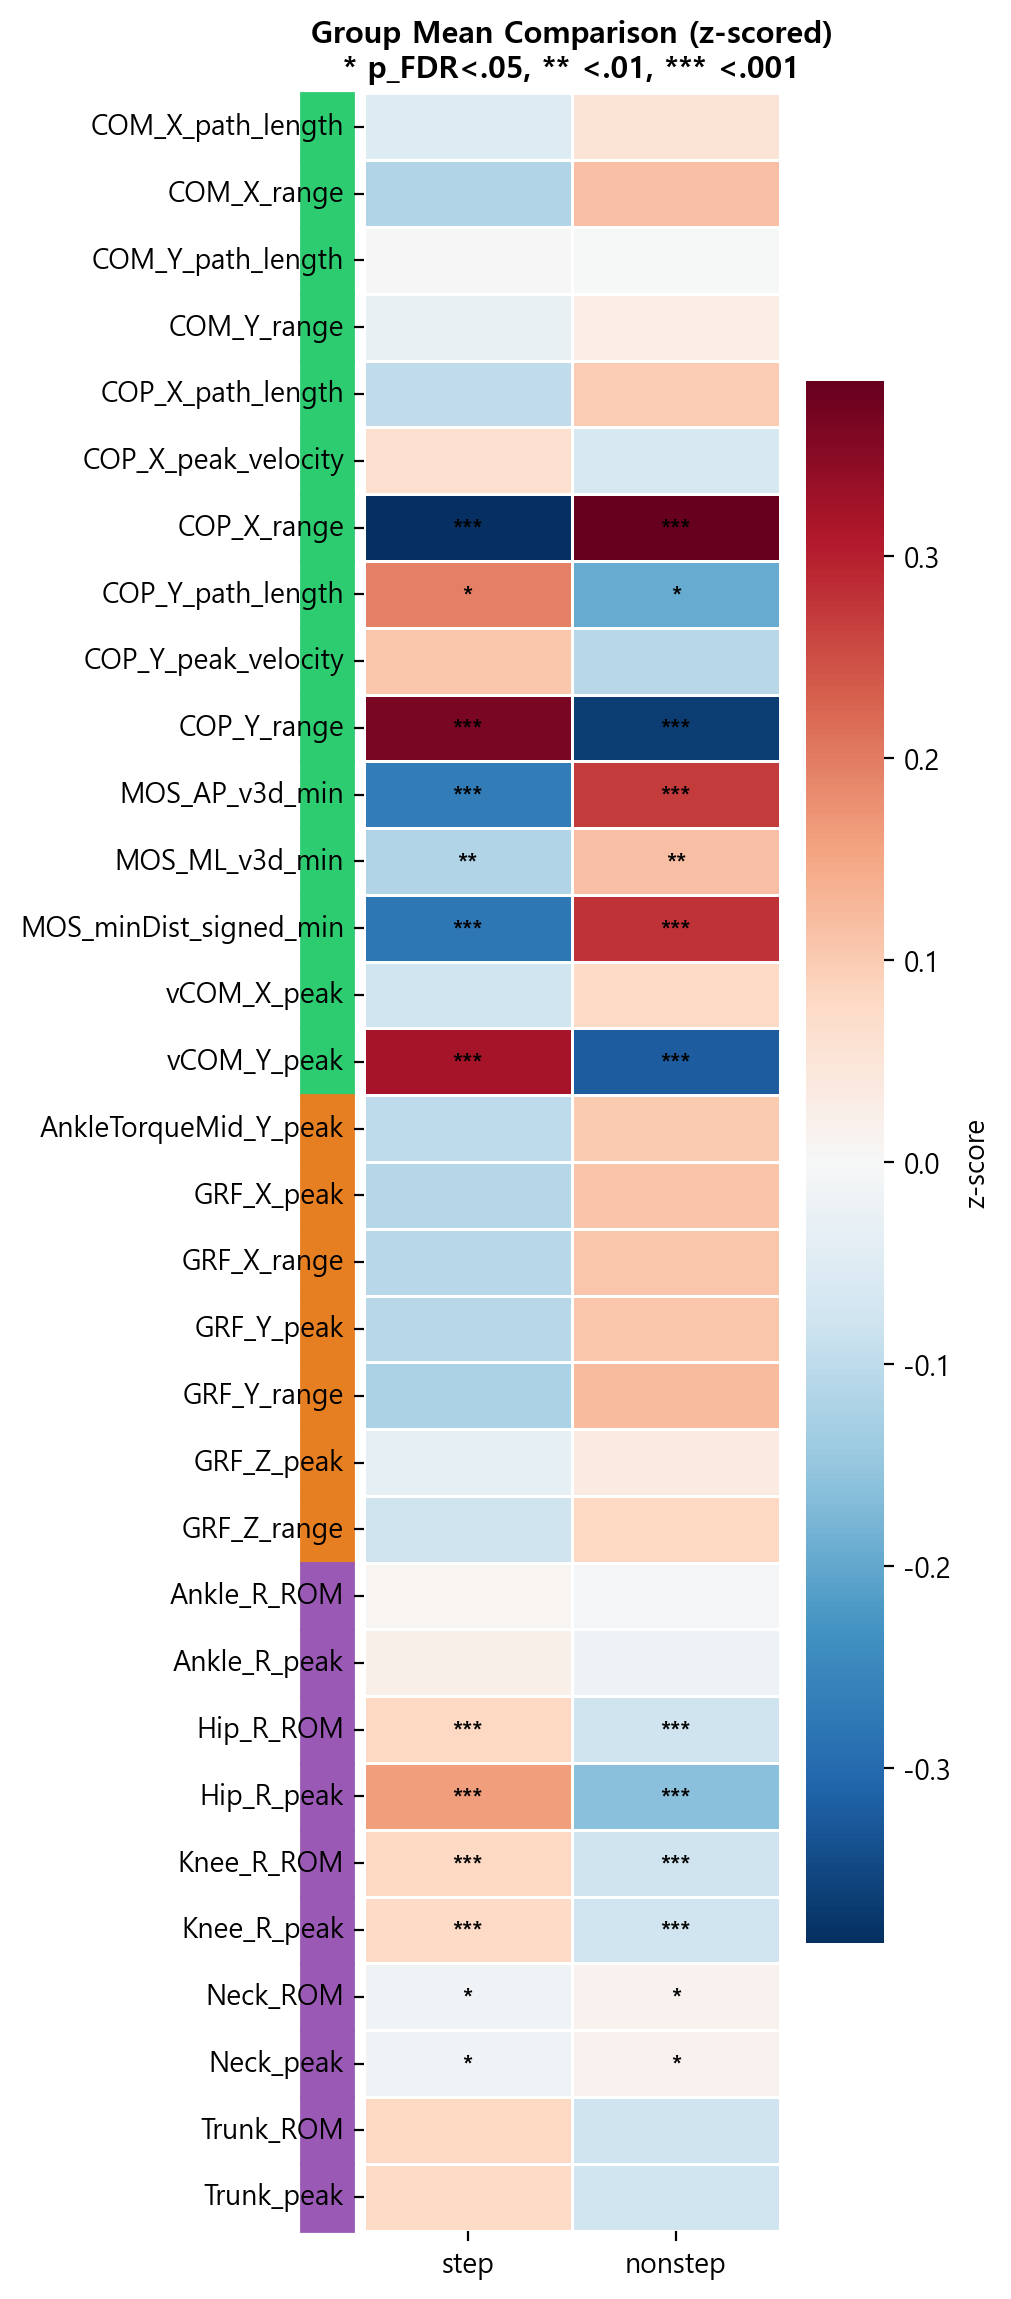
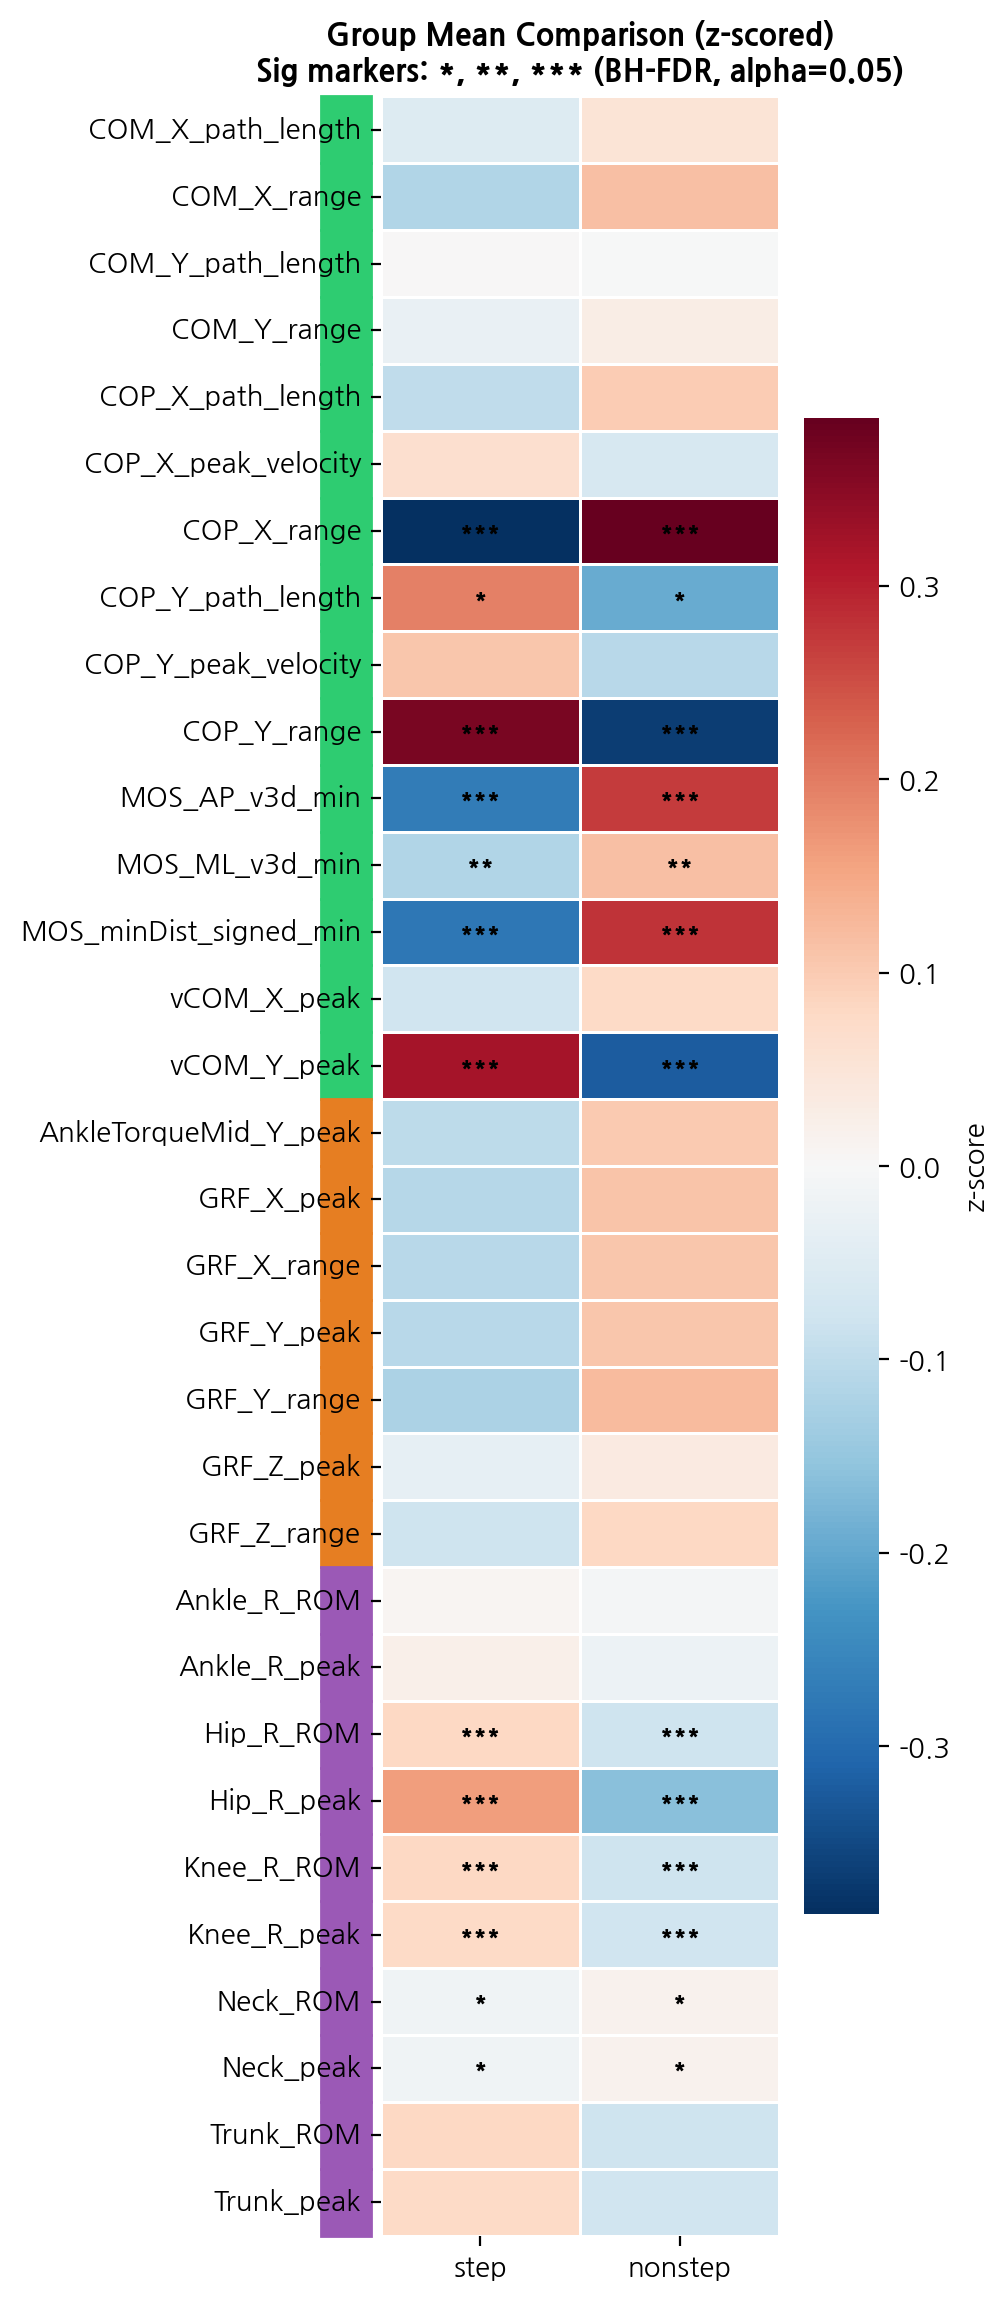
LMM 리포트/출력의 sig-only 규칙 정렬
step_vs_nonstep_lmm 보고서에서 peak를 abs_peak(max|x|)로 명확히 정의함

표/콘솔/그림에서 p값·df 노출을 제거하고 Sig(*, **, ***, n.s.)만 표시하도록 통일함

analysis-report/prior-study 스킬 템플릿과 .codex/issue.md를 동기화하고 WSL Rscript 우회 워크어라운드를 기록함

diff --git a/analysis/step_vs_nonstep_lmm/analyze_step_vs_nonstep_lmm.py b/analysis/step_vs_nonstep_lmm/analyze_step_vs_nonstep_lmm.py
@@ -3,7 +3,7 @@
 Answers: "Do biomechanical variables differ between step and non-step
 balance recovery strategies under identical perturbation intensity?"
 
-Statistical method: Linear Mixed Model (LMM) with Satterthwaite df
+Statistical method: Linear Mixed Model (LMM) with lmerTest inference
   Model: DV ~ step_TF + (1|subject)
   Multiple comparison: Benjamini-Hochberg FDR per variable family
   Analysis window: [platform_onset, step_onset] per trial
@@ -478,26 +478,24 @@ def fit_lmm_all(trial_df: pd.DataFrame, specs: list[dict]) -> pd.DataFrame:
 
 def print_results_table(results: pd.DataFrame) -> None:
     """Print formatted LMM results to stdout."""
-    print("\n" + "=" * 110)
-    print("LMM Results: DV ~ step_TF + (1|subject), REML, Satterthwaite df")
-    print("=" * 110)
-    fmt = "{:<30s} {:<20s} {:>9s} {:>8s} {:>8s} {:>8s} {:>10s} {:>10s} {:>4s}"
-    print(fmt.format("DV", "Family", "Estimate", "SE", "df", "t", "p", "p_FDR", "Sig"))
-    print("-" * 110)
+    print("\n" + "=" * 90)
+    print("LMM Results: DV ~ step_TF + (1|subject), REML")
+    print("Sig rule: BH-FDR by family, alpha=0.05")
+    print("=" * 90)
+    fmt = "{:<30s} {:<20s} {:>9s} {:>8s} {:>8s} {:>5s}"
+    print(fmt.format("DV", "Family", "Estimate", "SE", "t", "Sig"))
+    print("-" * 90)
 
     for fam in [FAMILY_BALANCE, FAMILY_JOINT, FAMILY_FORCE]:
         sub = results[results["family"] == fam]
         for _, row in sub.iterrows():
             est = f"{row['estimate']:.4f}" if pd.notna(row["estimate"]) else "FAIL"
             se = f"{row['SE']:.4f}" if pd.notna(row["SE"]) else ""
-            df = f"{row['df']:.1f}" if pd.notna(row["df"]) else ""
             t = f"{row['t_value']:.3f}" if pd.notna(row["t_value"]) else ""
-            p = f"{row['p_value']:.4f}" if pd.notna(row["p_value"]) else ""
-            pfdr = f"{row['p_fdr']:.4f}" if pd.notna(row["p_fdr"]) else ""
-            sig = row["sig"]
+            sig = row["sig"] if row["sig"] else "n.s."
             fam_short = fam[:18]
-            print(fmt.format(row["dv"][:30], fam_short, est, se, df, t, p, pfdr, sig))
-        print("-" * 110)
+            print(fmt.format(row["dv"][:30], fam_short, est, se, t, sig))
+        print("-" * 90)
 
     n_sig = (results["sig"] != "").sum()
     n_total = len(results)
@@ -506,12 +504,12 @@ def print_results_table(results: pd.DataFrame) -> None:
     # Descriptive stats for significant variables
     sig_rows = results[results["sig"] != ""].sort_values("p_fdr")
     if not sig_rows.empty:
-        print("\n--- Significant Variables (FDR < 0.05) ---")
+        print("\n--- Significant Variables (BH-FDR Sig, alpha=0.05) ---")
         for _, row in sig_rows.iterrows():
             print(
                 f"  {row['dv']}: step={row['mean_step']:.4f}±{row['sd_step']:.4f}, "
                 f"nonstep={row['mean_nonstep']:.4f}±{row['sd_nonstep']:.4f}, "
-                f"p_FDR={row['p_fdr']:.4f} {row['sig']}"
+                f"sig={row['sig']}"
             )
 
 
@@ -614,8 +612,8 @@ def fig2_violin(trial_df: pd.DataFrame, results: pd.DataFrame, out_dir: Path, dp
         )
 
         r = results[results["dv"] == dv].iloc[0]
-        p_text = f"p_FDR={r['p_fdr']:.4f}" if pd.notna(r["p_fdr"]) else ""
-        ax.set_title(f"{dv}\n{p_text} {r['sig']}", fontsize=9, fontweight="bold")
+        sig_label = r["sig"] if r["sig"] else "n.s."
+        ax.set_title(f"{dv}\nSig: {sig_label}", fontsize=9, fontweight="bold")
         ax.set_xlabel("")
         ax.set_ylabel(dv, fontsize=8)
 
@@ -669,7 +667,7 @@ def fig3_heatmap(results: pd.DataFrame, out_dir: Path, dpi: int) -> None:
         ax.add_patch(plt.Rectangle((-0.3, i), 0.25, 1, color=color, clip_on=False, transform=ax.transData))
 
     ax.set_ylabel("")
-    ax.set_title("Group Mean Comparison (z-scored)\n* p_FDR<.05, ** <.01, *** <.001",
+    ax.set_title("Group Mean Comparison (z-scored)\nSig markers: *, **, *** (BH-FDR, alpha=0.05)",
                  fontsize=11, fontweight="bold")
 
     fig.tight_layout()

diff --git a/.codex/skills/prior-study-replication/SKILL.md b/.codex/skills/prior-study-replication/SKILL.md
@@ -64,6 +64,13 @@ description: "Companion to analysis-report. Provides report.md structure for ana
 - Verdict values: `Consistent` / `Partially consistent` / `Inconsistent` / `Not tested`
 - Any `Inconsistent` or `Not tested` item MUST include a brief explanation
 
+### Results Reporting Convention (default)
+
+- User-facing Results tables should hide numeric `p` values and `df` unless the user explicitly requests them.
+- Report significance with `Sig` only: `*`, `**`, `***`, `n.s.` at `alpha=0.05`.
+- If multiple comparison correction is used, compute `Sig` from corrected p-values (e.g., BH-FDR) and name the method in Analysis Methodology.
+- For metrics named `*_peak`, define the term explicitly as absolute peak: `abs_peak = max(|x|)` within the analysis window.
+
 ## Validation
 
 - report.md contains all 11 mandatory sections in order
@@ -71,6 +78,7 @@ description: "Companion to analysis-report. Provides report.md structure for ana
 - Methodological Adaptation: comparison table present; all deviation rows have rationale
 - Comparison with Prior Studies: comparison table present with verdicts; inconsistencies explained
 - All numbers in Comparison table match Results section and Prior Studies section
+- Results tables follow `Sig-only` convention by default (no numeric `p`/`df` columns unless requested)
 
 ## Completion Checklist
 

diff --git a/.codex/issue.md b/.codex/issue.md
@@ -7,6 +7,7 @@ Policy:
 ---
 ## 2026-02-19
 
+- [ANALYSIS] `analysis/step_vs_nonstep_lmm/analyze_step_vs_nonstep_lmm.py` fails on direct full run in WSL (`conda run --no-capture-output -n module python ...`) because `RSCRIPT` is pinned to a Windows absolute path (`C:\\Users\\Alice\\miniconda3\\envs\\module\\lib\\R/bin/x64/Rscript.exe`), so baseline/full-run verification cannot complete without environment-specific runtime override.
 - [VIZ] `scripts/plot_bos_com_xy_sample.py` did not initialize a Hangul-capable matplotlib font at module load time, so GIF exports with Korean subject names could emit `Glyph ... missing from current font` warnings and render unreadable tofu glyphs in title/metadata text.
 - [ANALYSIS] In `analysis/why_stepping_before_threshold`, direct comparison between COP-based boundaries and COM/xCOM metrics is not valid due to coordinate-system incompatibility in the lab setup, making COP-driven boundary analyses non-interpretable for this dataset.
 - [ANALYSIS] In `analysis/why_stepping_before_threshold`, switching from single-timepoint snapshots to window-mean aggregation (`platform_onset_local ~ step_onset_local`, nonstep end by subject mean step onset) materially changes model ranking and coefficient significance, so legacy snapshot conclusions cannot be reused for current methodology.

diff --git a/.codex/skills/analysis-report/templates/report_template.md b/.codex/skills/analysis-report/templates/report_template.md
@@ -18,8 +18,10 @@ Background context in 1-2 sentences.
 - **Analysis window**: <e.g., [platform_onset, step_onset] per trial>
   - Step trials: <actual step_onset_local>
   - Nonstep trials: <mean step_onset of same (subject, velocity) step trials>
-- **Statistical model**: <e.g., LMM: DV ~ step_TF + (1|subject), REML, Satterthwaite df>
+- **Statistical model**: <e.g., LMM: DV ~ step_TF + (1|subject), REML>
 - **Multiple comparison correction**: <e.g., Benjamini-Hochberg FDR per variable family>
+- **Significance reporting**: `Sig` only (`*`, `**`, `***`, `n.s.`, alpha=0.05), hide numeric `p` and `df` in user-facing tables
+- **Peak definition**: `*_peak` uses `abs_peak = max(|x|)` within the analysis window
 - **Variable families**:
   - <Family 1>: <list variables>
   - <Family 2>: <list variables>
@@ -31,11 +33,11 @@ Background context in 1-2 sentences.
 
 ### 1. <First analysis>
 
-(tables, statistics, p-values, effect sizes)
+(tables, statistics, Sig markers, effect sizes)
 
-| Variable | Estimate | SE | df | t | p | p_FDR | Sig |
-|----------|----------|----|-----|---|---|-------|-----|
-| ... | ... | ... | ... | ... | ... | ... | ... |
+| Variable | Estimate | SE | t | Sig |
+|----------|----------|----|---|-----|
+| ... | ... | ... | ... | ... |
 
 ### 2. <Second analysis>
 

diff --git a/.codex/skills/analysis-report/SKILL.md b/.codex/skills/analysis-report/SKILL.md
@@ -36,6 +36,13 @@ analysis/<topic>/
 - `DEFAULT_OUT_DIR = SCRIPT_DIR` — figures saved alongside the script
 - If intermediate data is needed, process in memory; do not export to files
 
+### Reporting Conventions (default)
+
+- User-facing report tables should hide numeric `p` values and `df` by default.
+- Report significance with `Sig` only: `*`, `**`, `***`, `n.s.` at `alpha=0.05`.
+- If multiple comparison correction is used, compute `Sig` from the corrected p-values (e.g., BH-FDR) and state the correction method in Analysis Methodology.
+- If variables use `*_peak`, define it explicitly as absolute peak: `abs_peak = max(|x|)` within the analysis window.
+
 ### Code Rules
 
 - **No `_bootstrap` module** — use direct `sys.path` setup (see `templates/script_boilerplate.py`)
@@ -96,7 +103,7 @@ analysis/<topic>/
 - `report.md` exists with required sections: Research Question, Data Summary, **Analysis Methodology**, Results, Interpretation, Reproduction, Figures
 - Key statistics printed to stdout match report.md content
 - No Excel/CSV files generated
-- (If using LMM via R) Satterthwaite df values are non-integer (fractional)
+- User-facing report tables follow `Sig-only` convention (no numeric `p`/`df` columns unless user explicitly requests)
 
 ## Completion Checklist
 

diff --git a/.codex/skills/prior-study-replication/templates/report_template.md b/.codex/skills/prior-study-replication/templates/report_template.md
@@ -48,6 +48,8 @@
 - **Analysis window**: ...
 - **Statistical model**: ...
 - **Multiple comparison correction**: ...
+- **Significance reporting**: `Sig` only (`*`, `**`, `***`, `n.s.`, alpha=0.05), hide numeric `p` and `df` in user-facing tables
+- **Peak definition**: `*_peak` uses `abs_peak = max(|x|)` within the analysis window
 - **Variable definitions**: ...
 - **Special handling**: ...
 
@@ -57,9 +59,9 @@
 
 ### 1. <First result>
 
-| Variable | ... | ... |
-|----------|-----|-----|
-| ... | ... | ... |
+| Variable | Estimate | SE | t | Sig |
+|----------|----------|----|---|-----|
+| ... | ... | ... | ... | ... |
 
 ### 2. <Second result>
 
